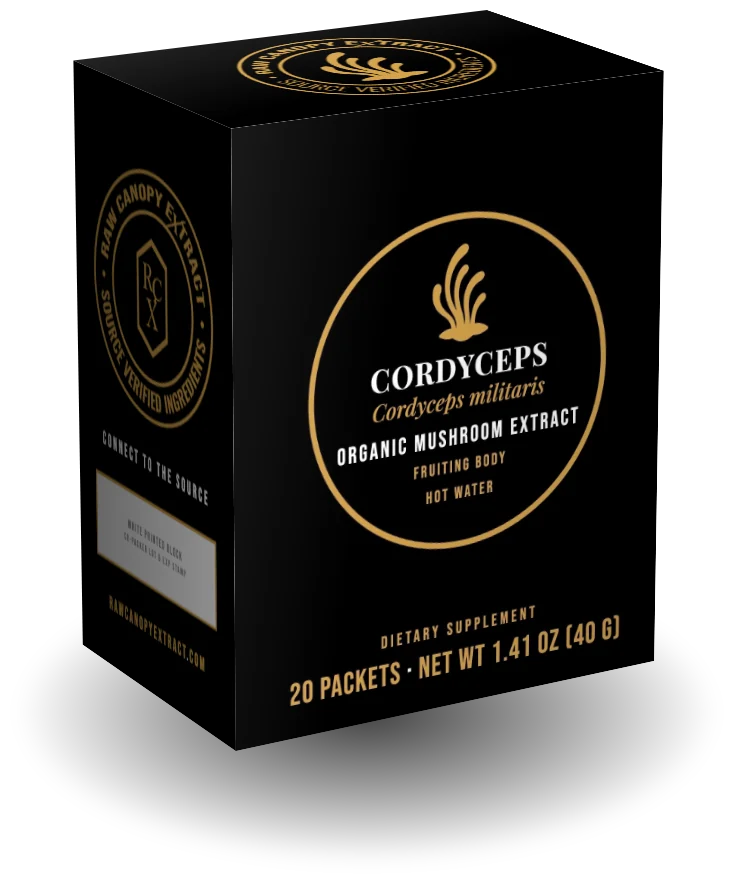
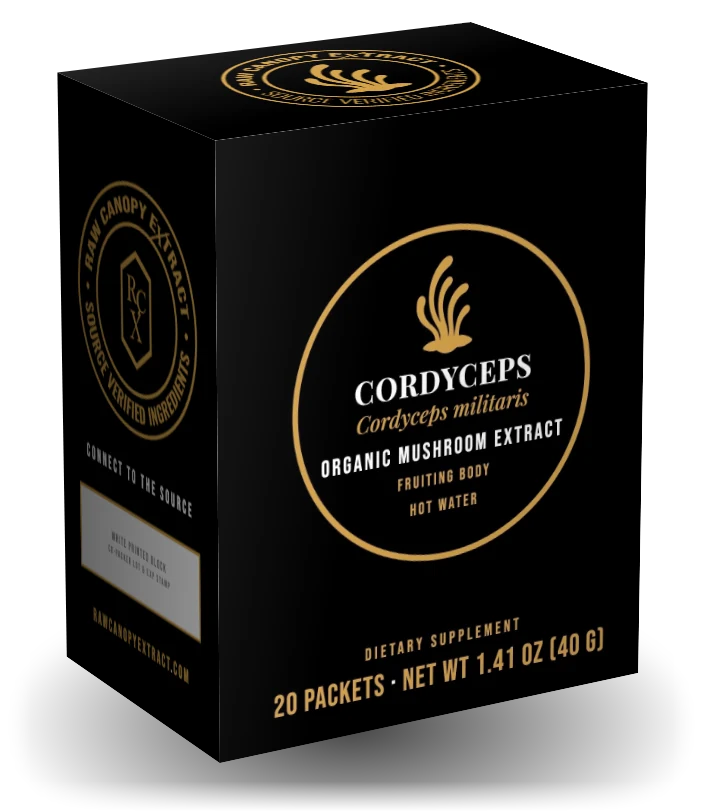
Steel tins fill more of their boxes (#174)
Claude-Session: https://claude.ai/code/session_01MhYC1AY8xeCEEXMzs5T9VR

diff --git a/index.html b/index.html
@@ -1659,7 +1659,7 @@ html body .mx-sec[data-m="mx-tt"] .mx-title>a.mx-ic-link>img{background:linear-g
 <div style="position:absolute;inset:0;background:rgba(0,0,0,.92);pointer-events:none"></div>
 <input type="radio" name="shoptg" id="shoptg-tin" checked class="shoptg-in"><input type="radio" name="shoptg" id="shoptg-box" class="shoptg-in"><div class="shoptg-bar" data-m="shoptg" role="tablist"><label for="shoptg-tin" class="shoptg-l shoptg-l1">STEEL TINS</label><label for="shoptg-box" class="shoptg-l shoptg-l2">KRAFT BOXES</label></div><div style="position:relative;max-width:1300px;margin:0 auto;display:grid;grid-template-columns:repeat(4,minmax(0,1fr));gap:16px" data-m="1col"><article style="border:1px solid rgba(212,162,74,.2);background:linear-gradient(#0A0A09,#000);padding:16px;display:flex;flex-direction:column;container-type:inline-size">
 <div data-pack-stage="tin" style="position:relative;height:calc(125cqw + 16px);background:radial-gradient(70% 55% at 50% 42%,#2a2622 0%,#0d0c0b 60%,#000 100%);margin:-16px -16px 20px;overflow:hidden">
-<img src="assets/photo/pack/tin-lm.webp?v=1" alt="Lion's Mane steel tin" style="position:absolute;left:50%;top:52%;height:88%;width:auto;max-width:none;transform:translate(-50%,-50%);display:block">
+<img src="assets/photo/pack/tin-lm.webp?v=2" alt="Lion's Mane steel tin" style="position:absolute;left:50%;top:52%;height:88%;width:auto;max-width:none;transform:translate(-50%,-50%);display:block">
 </div>
 <h2 style="font-family:'Playfair Display',serif;font-weight:500;font-size:clamp(30px,2.6vw,38px);color:#F1ECE1;margin:0 0 8px">Lion's Mane</h2>
 <p style="font-family:'Bebas Neue',sans-serif;letter-spacing:.16em;font-size:15px;color:#D4A24A;margin:0 0 14px">20 PACKETS · 2 GRAM SERVINGS</p>
@@ -1683,7 +1683,7 @@ html body .mx-sec[data-m="mx-tt"] .mx-title>a.mx-ic-link>img{background:linear-g
 
 <article style="border:1px solid rgba(212,162,74,.2);background:linear-gradient(#0A0A09,#000);padding:16px;display:flex;flex-direction:column;container-type:inline-size">
 <div data-pack-stage="tin" style="position:relative;height:calc(125cqw + 16px);background:radial-gradient(70% 55% at 50% 42%,#2a2622 0%,#0d0c0b 60%,#000 100%);margin:-16px -16px 20px;overflow:hidden">
-<img src="assets/photo/pack/tin-cd.webp?v=1" alt="Cordyceps steel tin" style="position:absolute;left:50%;top:52%;height:88%;width:auto;max-width:none;transform:translate(-50%,-50%);display:block">
+<img src="assets/photo/pack/tin-cd.webp?v=2" alt="Cordyceps steel tin" style="position:absolute;left:50%;top:52%;height:88%;width:auto;max-width:none;transform:translate(-50%,-50%);display:block">
 </div>
 <h2 style="font-family:'Playfair Display',serif;font-weight:500;font-size:clamp(30px,2.6vw,38px);color:#F1ECE1;margin:0 0 8px">Cordyceps</h2>
 <p style="font-family:'Bebas Neue',sans-serif;letter-spacing:.16em;font-size:15px;color:#D4A24A;margin:0 0 14px">20 PACKETS · 2 GRAM SERVINGS</p>
@@ -1707,7 +1707,7 @@ html body .mx-sec[data-m="mx-tt"] .mx-title>a.mx-ic-link>img{background:linear-g
 
 <article style="border:1px solid rgba(212,162,74,.2);background:linear-gradient(#0A0A09,#000);padding:16px;display:flex;flex-direction:column;container-type:inline-size">
 <div data-pack-stage="tin" style="position:relative;height:calc(125cqw + 16px);background:radial-gradient(70% 55% at 50% 42%,#2a2622 0%,#0d0c0b 60%,#000 100%);margin:-16px -16px 20px;overflow:hidden">
-<img src="assets/photo/pack/tin-tt.webp?v=1" alt="Turkey Tail steel tin" style="position:absolute;left:50%;top:52%;height:88%;width:auto;max-width:none;transform:translate(-50%,-50%);display:block">
+<img src="assets/photo/pack/tin-tt.webp?v=2" alt="Turkey Tail steel tin" style="position:absolute;left:50%;top:52%;height:88%;width:auto;max-width:none;transform:translate(-50%,-50%);display:block">
 </div>
 <h2 style="font-family:'Playfair Display',serif;font-weight:500;font-size:clamp(30px,2.6vw,38px);color:#F1ECE1;margin:0 0 8px">Turkey Tail</h2>
 <p style="font-family:'Bebas Neue',sans-serif;letter-spacing:.16em;font-size:15px;color:#D4A24A;margin:0 0 14px">20 PACKETS · 2 GRAM SERVINGS</p>
@@ -1730,7 +1730,7 @@ html body .mx-sec[data-m="mx-tt"] .mx-title>a.mx-ic-link>img{background:linear-g
 </article>
 <article style="border:1px solid rgba(212,162,74,.2);background:#5C1319;padding:16px;display:flex;flex-direction:column;container-type:inline-size">
 <div data-pack-stage="tin" style="position:relative;height:calc(125cqw + 16px);background:radial-gradient(70% 55% at 50% 42%,#2a2622 0%,#0d0c0b 60%,#000 100%);margin:-16px -16px 20px;overflow:hidden">
-<img src="assets/photo/pack/tin-co.webp?v=1" alt="Triple Power combo steel tin" style="position:absolute;left:50%;top:52%;height:94%;width:auto;max-width:none;transform:translate(-50%,-50%);display:block">
+<img src="assets/photo/pack/tin-co.webp?v=2" alt="Triple Power combo steel tin" style="position:absolute;left:50%;top:52%;height:94%;width:auto;max-width:none;transform:translate(-50%,-50%);display:block">
 </div>
 <h2 style="font-family:'Playfair Display',serif;font-weight:500;font-size:11.75cqw;color:#F1ECE1;margin:0 0 8px;white-space:nowrap">Mushroom Combo</h2>
 <p style="font-family:'Bebas Neue',sans-serif;letter-spacing:.16em;font-size:15px;color:#D4A24A;margin:0 0 14px">30 PACKETS · 2 GRAM SERVINGS</p>
@@ -1875,7 +1875,7 @@ html body .mx-sec[data-m="mx-tt"] .mx-title>a.mx-ic-link>img{background:linear-g
 </div>
 </section>
 
-<section data-m="pack-sec" class="pk-sec"><div class="pk-wrap"><div class="mx-title"><h2>WHAT IT COMES IN</h2><p>A steel tin you keep. <span>A compostable box to refill it.</span></p></div><div class="pk-grid"><figure class="pk-tile pk-tin"><div class="pk-img"><img src="assets/photo/pack/tin-lm.webp?v=1" alt="Lion's Mane packaging" loading="lazy"></div><figcaption><span class="pk-name">Lion's Mane</span><span class="pk-kind">STEEL TIN · 20 PACKETS</span><span class="pk-dim">About 3.1 x 2.2 x 4 in</span></figcaption></figure><figure class="pk-tile pk-tin"><div class="pk-img"><img src="assets/photo/pack/tin-cd.webp?v=1" alt="Cordyceps packaging" loading="lazy"></div><figcaption><span class="pk-name">Cordyceps</span><span class="pk-kind">STEEL TIN · 20 PACKETS</span><span class="pk-dim">About 3.1 x 2.2 x 4 in</span></figcaption></figure><figure class="pk-tile pk-tin"><div class="pk-img"><img src="assets/photo/pack/tin-tt.webp?v=1" alt="Turkey Tail packaging" loading="lazy"></div><figcaption><span class="pk-name">Turkey Tail</span><span class="pk-kind">STEEL TIN · 20 PACKETS</span><span class="pk-dim">About 3.1 x 2.2 x 4 in</span></figcaption></figure><figure class="pk-tile pk-tin"><div class="pk-img"><img src="assets/photo/pack/tin-co.webp?v=1" alt="Triple Power packaging" loading="lazy"></div><figcaption><span class="pk-name">Triple Power</span><span class="pk-kind">COMBO STEEL TIN · 30 PACKETS</span><span class="pk-dim">About 3.1 x 2.2 x 5 in</span></figcaption></figure><figure class="pk-tile pk-box"><div class="pk-img"><img src="assets/photo/pack/box-lm.webp?v=2" alt="The Refill Box packaging" loading="lazy"></div><figcaption><span class="pk-name">The Refill Box</span><span class="pk-kind">COMPOSTABLE KRAFT · 40 PACKETS</span><span class="pk-dim">About 4.3 x 2.6 x 3.2 in</span></figcaption></figure><figure class="pk-tile pk-box"><div class="pk-img"><img src="assets/photo/pack/box-co.webp?v=2" alt="The Combo Box packaging" loading="lazy"></div><figcaption><span class="pk-name">The Combo Box</span><span class="pk-kind">COMPOSTABLE KRAFT · 60 PACKETS</span><span class="pk-dim">About 6.5 x 2.6 x 3.2 in</span></figcaption></figure></div><p class="pk-note">In the tin, the packets lie flat. In the box, they stand on edge like files. Turn the tin over and one slides out. Sizes are close; final sizes come with the molds.</p></div></section>
+<section data-m="pack-sec" class="pk-sec"><div class="pk-wrap"><div class="mx-title"><h2>WHAT IT COMES IN</h2><p>A steel tin you keep. <span>A compostable box to refill it.</span></p></div><div class="pk-grid"><figure class="pk-tile pk-tin"><div class="pk-img"><img src="assets/photo/pack/tin-lm.webp?v=2" alt="Lion's Mane packaging" loading="lazy"></div><figcaption><span class="pk-name">Lion's Mane</span><span class="pk-kind">STEEL TIN · 20 PACKETS</span><span class="pk-dim">About 3.1 x 2.2 x 4 in</span></figcaption></figure><figure class="pk-tile pk-tin"><div class="pk-img"><img src="assets/photo/pack/tin-cd.webp?v=2" alt="Cordyceps packaging" loading="lazy"></div><figcaption><span class="pk-name">Cordyceps</span><span class="pk-kind">STEEL TIN · 20 PACKETS</span><span class="pk-dim">About 3.1 x 2.2 x 4 in</span></figcaption></figure><figure class="pk-tile pk-tin"><div class="pk-img"><img src="assets/photo/pack/tin-tt.webp?v=2" alt="Turkey Tail packaging" loading="lazy"></div><figcaption><span class="pk-name">Turkey Tail</span><span class="pk-kind">STEEL TIN · 20 PACKETS</span><span class="pk-dim">About 3.1 x 2.2 x 4 in</span></figcaption></figure><figure class="pk-tile pk-tin"><div class="pk-img"><img src="assets/photo/pack/tin-co.webp?v=2" alt="Triple Power packaging" loading="lazy"></div><figcaption><span class="pk-name">Triple Power</span><span class="pk-kind">COMBO STEEL TIN · 30 PACKETS</span><span class="pk-dim">About 3.1 x 2.2 x 5 in</span></figcaption></figure><figure class="pk-tile pk-box"><div class="pk-img"><img src="assets/photo/pack/box-lm.webp?v=2" alt="The Refill Box packaging" loading="lazy"></div><figcaption><span class="pk-name">The Refill Box</span><span class="pk-kind">COMPOSTABLE KRAFT · 40 PACKETS</span><span class="pk-dim">About 4.3 x 2.6 x 3.2 in</span></figcaption></figure><figure class="pk-tile pk-box"><div class="pk-img"><img src="assets/photo/pack/box-co.webp?v=2" alt="The Combo Box packaging" loading="lazy"></div><figcaption><span class="pk-name">The Combo Box</span><span class="pk-kind">COMPOSTABLE KRAFT · 60 PACKETS</span><span class="pk-dim">About 6.5 x 2.6 x 3.2 in</span></figcaption></figure></div><p class="pk-note">In the tin, the packets lie flat. In the box, they stand on edge like files. Turn the tin over and one slides out. Sizes are close; final sizes come with the molds.</p></div></section>
 <section class="sr-sec" data-m="shop-research"><div class="sr-wrap"><div class="mx-title"><h2>THE RESEARCH</h2><p>Don't ask us. <span>Ask them.</span></p></div><div class="sr-grid"><a href="https://pubmed.ncbi.nlm.nih.gov/?term=%22Hericium+erinaceus%22" target="_blank" rel="noopener" class="mx-box mx-lab"><span class="lab-hd">LAB REPORT · PUBMED SEARCH · OCT 2026</span><span class="lab-title">LION'S MANE · HERICIUM ERINACEUS</span><span class="lab-rows"><span class="lab-row"><span class="lab-n">590</span><span class="lab-bar"><i style="width:100%"></i></span><span class="lab-l">PUBLISHED PAPERS</span></span><span class="lab-row"><span class="lab-n">343</span><span class="lab-bar"><i style="width:58%"></i></span><span class="lab-l">LAST FIVE YEARS</span></span><span class="lab-row"><span class="lab-n">170</span><span class="lab-bar"><i style="width:29%"></i></span><span class="lab-l">HUMAN RESEARCH</span></span><span class="lab-row"><span class="lab-n">7</span><span class="lab-bar"><i style="width:4%"></i></span><span class="lab-l">CLINICAL TRIALS</span></span></span><span class="lab-src">Source: U.S. National Library of Medicine</span><span class="mx-cta">SEARCH IT YOURSELF&nbsp;→</span></a><a href="https://pubmed.ncbi.nlm.nih.gov/?term=%22Cordyceps+militaris%22" target="_blank" rel="noopener" class="mx-box mx-lab"><span class="lab-hd">LAB REPORT · PUBMED SEARCH · OCT 2026</span><span class="lab-title">CORDYCEPS · CORDYCEPS MILITARIS</span><span class="lab-rows"><span class="lab-row"><span class="lab-n">2,946</span><span class="lab-bar"><i style="width:100%"></i></span><span class="lab-l">PAPERS, ALL CORDYCEPS</span></span><span class="lab-row"><span class="lab-n">1,070</span><span class="lab-bar"><i style="width:36%"></i></span><span class="lab-l">C. MILITARIS, IN YOUR PACKET</span></span><span class="lab-row"><span class="lab-n">641</span><span class="lab-bar"><i style="width:22%"></i></span><span class="lab-l">HUMAN RESEARCH</span></span><span class="lab-row"><span class="lab-n">40</span><span class="lab-bar"><i style="width:4%"></i></span><span class="lab-l">CLINICAL TRIALS</span></span></span><span class="lab-src">Source: U.S. National Library of Medicine</span><span class="mx-cta">SEARCH IT YOURSELF&nbsp;→</span></a><a href="https://pubmed.ncbi.nlm.nih.gov/?term=%22Trametes+versicolor%22+OR+%22Coriolus+versicolor%22" target="_blank" rel="noopener" class="mx-box mx-lab"><span class="lab-hd">LAB REPORT · PUBMED SEARCH · OCT 2026</span><span class="lab-title">TURKEY TAIL · TRAMETES VERSICOLOR</span><span class="lab-rows lab-big"><span class="lab-row"><span class="lab-n">1,800</span><span class="lab-bar"><i style="width:100%"></i></span><span class="lab-l">PUBLISHED PAPERS</span></span><span class="lab-row"><span class="lab-n">221</span><span class="lab-bar"><i style="width:12%"></i></span><span class="lab-l">HUMAN RESEARCH</span></span><span class="lab-row"><span class="lab-n">101</span><span class="lab-bar"><i style="width:6%"></i></span><span class="lab-l">CLINICAL TRIALS</span></span></span><span class="lab-src">Source: U.S. National Library of Medicine</span><span class="mx-cta">SEARCH IT YOURSELF&nbsp;→</span></a></div><div class="cx" style="margin-top:16px"><div class="cx-track"><a href="https://www.jstage.jst.go.jp/article/biomedres/40/4/40_125/_article" target="_blank" rel="noopener" class="mx-box" style="background-image:linear-gradient(to top,rgba(0,0,0,.94) 0%,rgba(0,0,0,.72) 55%,rgba(0,0,0,.4) 100%),url('assets/photo/lab-people.jpg');background-position:center,center"><span class="mx-tag">HUMAN TRIAL · PLACEBO CONTROLLED</span><span class="mx-head" style="font-size:clamp(22px,1.9vw,28px);max-width:26ch">Improvement of cognitive functions by oral intake of Hericium erinaceus</span><span class="mx-small">Biomedical Research, Japan, 2019</span><span class="mx-text">Healthy adults took lion's mane every day for twelve weeks and were scored on cognitive tests against a placebo group.</span><span class="mx-cta">READ IT&nbsp;→</span></a><a href="https://news.uq.edu.au/2023-02-10-mushrooms-magnify-memory-boosting-nerve-growth" target="_blank" rel="noopener" class="mx-box" style="background-image:linear-gradient(to top,rgba(0,0,0,.94) 0%,rgba(0,0,0,.72) 55%,rgba(0,0,0,.4) 100%),url('assets/photo/bamboo-window-lab.jpg');background-position:center,center"><span class="mx-tag">UNIVERSITY RESEARCH</span><span class="mx-head" style="font-size:clamp(22px,1.9vw,28px);max-width:26ch">Mushrooms magnify memory by boosting nerve growth</span><span class="mx-small">The University of Queensland, 2023</span><span class="mx-text">A university lab looking at compounds in lion's mane and how they affect nerve cell growth. Early science, from a real university.</span><span class="mx-cta">READ IT&nbsp;→</span></a><a href="https://journals.plos.org/plosone/article?id=10.1371/journal.pone.0351725" target="_blank" rel="noopener" class="mx-box" style="background-image:linear-gradient(to top,rgba(0,0,0,.94) 0%,rgba(0,0,0,.72) 55%,rgba(0,0,0,.4) 100%),url('assets/photo/hex-lab.jpg');background-position:center,center"><span class="mx-tag">RANDOMIZED CROSSOVER TRIAL</span><span class="mx-head" style="font-size:clamp(22px,1.9vw,28px);max-width:26ch">Cordyceps militaris and faster reaction times</span><span class="mx-small">PLOS ONE, archived by the National Library of Medicine</span><span class="mx-text">The same people were tested with and without cordyceps. Oxygen uptake and reaction time were measured.</span><span class="mx-cta">READ IT&nbsp;→</span></a><a href="https://www.sciencedirect.com/science/article/abs/pii/S156757690300290X" target="_blank" rel="noopener" class="mx-box" style="background-image:linear-gradient(to top,rgba(0,0,0,.94) 0%,rgba(0,0,0,.72) 55%,rgba(0,0,0,.4) 100%),url('assets/photo/reactors-lab.jpg');background-position:center,center"><span class="mx-tag">DOUBLE BLIND · PLACEBO CONTROLLED</span><span class="mx-head" style="font-size:clamp(22px,1.9vw,28px);max-width:26ch">Immune effects of Yun Zhi in healthy adults</span><span class="mx-small">International Immunopharmacology</span><span class="mx-text">Yun Zhi is turkey tail. Healthy adults, nobody knowing who got what, immune markers measured against placebo.</span><span class="mx-cta">READ IT&nbsp;→</span></a><a href="https://pubmed.ncbi.nlm.nih.gov/25006989/" target="_blank" rel="noopener" class="mx-box" style="background-image:linear-gradient(to top,rgba(0,0,0,.94) 0%,rgba(0,0,0,.72) 55%,rgba(0,0,0,.4) 100%),url('assets/photo/tank-lab.jpg');background-position:center,center"><span class="mx-tag">HUMAN TRIAL · GUT MICROBIOME</span><span class="mx-head" style="font-size:clamp(22px,1.9vw,28px);max-width:26ch">Turkey tail and the gut microbiome</span><span class="mx-small">PubMed, National Library of Medicine</span><span class="mx-text">How turkey tail's polysaccharopeptide affects the bacteria that live in the gut, in healthy volunteers.</span><span class="mx-cta">READ IT&nbsp;→</span></a><a href="https://pubmed.ncbi.nlm.nih.gov/" target="_blank" rel="noopener" class="mx-box" style="background-image:linear-gradient(to top,rgba(0,0,0,.94) 0%,rgba(0,0,0,.72) 55%,rgba(0,0,0,.4) 100%),url('assets/photo/mortar-lab.jpg');background-position:center,center"><span class="mx-tag">CHECK US YOURSELF</span><span class="mx-head" style="font-size:clamp(22px,1.9vw,28px);max-width:26ch">Search the Latin name at pubmed.gov</span><span class="mx-small">Free, from the U.S. National Library of Medicine</span><span class="mx-text">Type "Hericium erinaceus", "Cordyceps militaris" or "Trametes versicolor" in quotes, then filter by Clinical Trial.</span><span class="mx-cta">READ IT&nbsp;→</span></a></div><div class="rit-nav"><button class="rit-arrow" data-d="-1" onClick="{{ cxMove }}" aria-label="Previous">‹</button><span>SCROLL FOR MORE</span><button class="rit-arrow" data-d="1" onClick="{{ cxMove }}" aria-label="Next">›</button></div></div><div class="mx-title pr-title" data-press="shop"><h2>IN THE MAGAZINES</h2><p>The big names are talking. <span>Read what they wrote.</span></p></div><div class="cx"><div class="cx-track"><a href="https://www.nationalgeographic.com/health/article/mushroom-health-benefits-lions-mane-chaga-oyster-reishi" target="_blank" rel="noopener" class="mx-box mx-press"><span class="pr-mast pr-caps">NATIONAL GEOGRAPHIC</span><span class="mx-tag">THE AGING BRAIN</span><span class="pr-head">“How to Hack Mushrooms to Make Them Even More Nutritious”</span><span class="pr-date">OCTOBER 2026</span><span class="pr-text">Older adults scored better on thinking tests with lion&#x27;s mane. Healthy adults over 55 got quicker.</span><span class="mx-cta">READ THE ARTICLE&nbsp;→</span></a><a href="https://vault.si.com/vault/1993/09/20/scorecard" target="_blank" rel="noopener" class="mx-box mx-press"><span class="pr-mast pr-caps">SPORTS ILLUSTRATED</span><span class="mx-tag">THE RECORD BREAKERS</span><span class="pr-head">“Stunning Runs”</span><span class="pr-date">SEPTEMBER 1993</span><span class="pr-text">China&#x27;s record breaking runners credited a tonic made from caterpillar fungus. That&#x27;s cordyceps.</span><span class="mx-cta">READ THE ARTICLE&nbsp;→</span></a><a href="https://www.nationalgeographic.com/science/article/mushroom-supplements-chaga-reishi-lions-mane" target="_blank" rel="noopener" class="mx-box mx-press"><span class="pr-mast pr-caps">NATIONAL GEOGRAPHIC</span><span class="mx-tag">THE MOST STUDIED</span><span class="pr-head">“Turkey tail. Chaga. Lion&#x27;s mane. Do these mushroom supplements really help you?”</span><span class="pr-date">JANUARY 2024</span><span class="pr-text">Perhaps the most widely studied medicinal mushroom, says National Geographic.</span><span class="mx-cta">READ THE ARTICLE&nbsp;→</span></a><a href="https://www.newsweek.com/lions-mane-what-medicinal-mushrooms-do-scientists-explain-1971415" target="_blank" rel="noopener" class="mx-box mx-press"><span class="pr-mast">Newsweek</span><span class="mx-tag">THE SCIENTISTS</span><span class="pr-head">“Lion&#x27;s Mane: What Do Medicinal Mushrooms Do? Scientists Explain”</span><span class="pr-date">OCTOBER 2024</span><span class="pr-text">Scientists call the memory findings promising, mostly in older adults.</span><span class="mx-cta">READ THE ARTICLE&nbsp;→</span></a><a href="https://run.outsideonline.com/nutrition-and-health/training-nutrition/i-tested-4-adaptogenic-mushroom-supplements-heres-what-they-did-for-my-running/" target="_blank" rel="noopener" class="mx-box mx-press"><span class="pr-mast">Outside</span><span class="mx-tag">THE RUNNER&#x27;S TEST</span><span class="pr-head">“I Tested 4 Adaptogenic Mushroom Supplements. Here&#x27;s What They Did for My Running.”</span><span class="pr-date">JULY 2026</span><span class="pr-text">A runner put mushroom supplements to the test. Cordyceps lifted her energy.</span><span class="mx-cta">READ THE ARTICLE&nbsp;→</span></a><a href="https://www.nationalgeographic.com/photography/photo-of-the-day/2014/11/turkey-tail-fungus/" target="_blank" rel="noopener" class="mx-box mx-press"><span class="pr-mast pr-caps">NATIONAL GEOGRAPHIC</span><span class="mx-tag">PHOTO OF THE DAY</span><span class="pr-head">“Turning Tail”</span><span class="pr-date">NOVEMBER 2014</span><span class="pr-text">Turkey tail made Photo of the Day. Believed to strengthen the immune system.</span><span class="mx-cta">READ THE ARTICLE&nbsp;→</span></a><a href="https://www.nationalgeographic.com/magazine/article/tibetan-mushroom" target="_blank" rel="noopener" class="mx-box mx-press"><span class="pr-mast pr-caps">NATIONAL GEOGRAPHIC</span><span class="mx-tag">THE GOLD RUSH</span><span class="pr-head">“Tibetan Gold”</span><span class="pr-date">AUGUST 2012</span><span class="pr-text">The hunt for wild cordyceps on the roof of the world.</span><span class="mx-cta">READ THE ARTICLE&nbsp;→</span></a><a href="https://www.bloomberg.com/news/newsletters/2023-11-13/mushrooms-are-having-a-cbd-moment" target="_blank" rel="noopener" class="mx-box mx-press"><span class="pr-mast">Bloomberg</span><span class="mx-tag">THE BOOM</span><span class="pr-head">“Functional Fungi, With Little FDA Oversight, Are the New CBD”</span><span class="pr-date">NOVEMBER 2023</span><span class="pr-text">Lion&#x27;s mane goes mainstream. Bloomberg calls mushrooms the new CBD.</span><span class="mx-cta">READ THE ARTICLE&nbsp;→</span></a></div><div class="rit-nav"><button class="rit-arrow" data-d="-1" onClick="{{ cxMove }}" aria-label="Previous">‹</button><span>SCROLL FOR MORE</span><button class="rit-arrow" data-d="1" onClick="{{ cxMove }}" aria-label="Next">›</button></div></div></div></section>
 <section data-m="soon-sec" style="padding:0 28px 110px;background:#000">
 <div style="max-width:1300px;margin:0 auto">
@@ -4963,6 +4963,11 @@ html body [data-screen-label="Shop"] article > [data-pack-stage="tin"],html body
 html body .pk-tile.pk-tin .pk-name{color:#141414}
 html body .pk-tile.pk-tin .pk-kind{color:#8A6420}
 html body .pk-tile.pk-tin .pk-dim{color:#3A342C}
+</style>
+<style id="tin-bigger-css">
+/* Oct 11: tins fill more of their box */
+html body [data-screen-label="Shop"][data-screen-label="Shop"] [data-m="1col"][data-m="1col"] > article:nth-child(n) > [data-pack-stage="tin"][data-pack-stage][data-pack-stage][data-pack-stage][data-pack-stage] > img:not(.x):not(.y):not(.z),html body [data-screen-label="Shop"] article > [data-pack-stage="tin"][data-pack-stage] > img{inset:3% 3% 2% !important;top:3% !important;left:3% !important;width:94% !important;height:95% !important;object-position:50% 50% !important}
+html body .pk-tile.pk-tin .pk-img img{max-height:98% !important;max-width:96% !important}
 </style>
 </body>
 </html>
